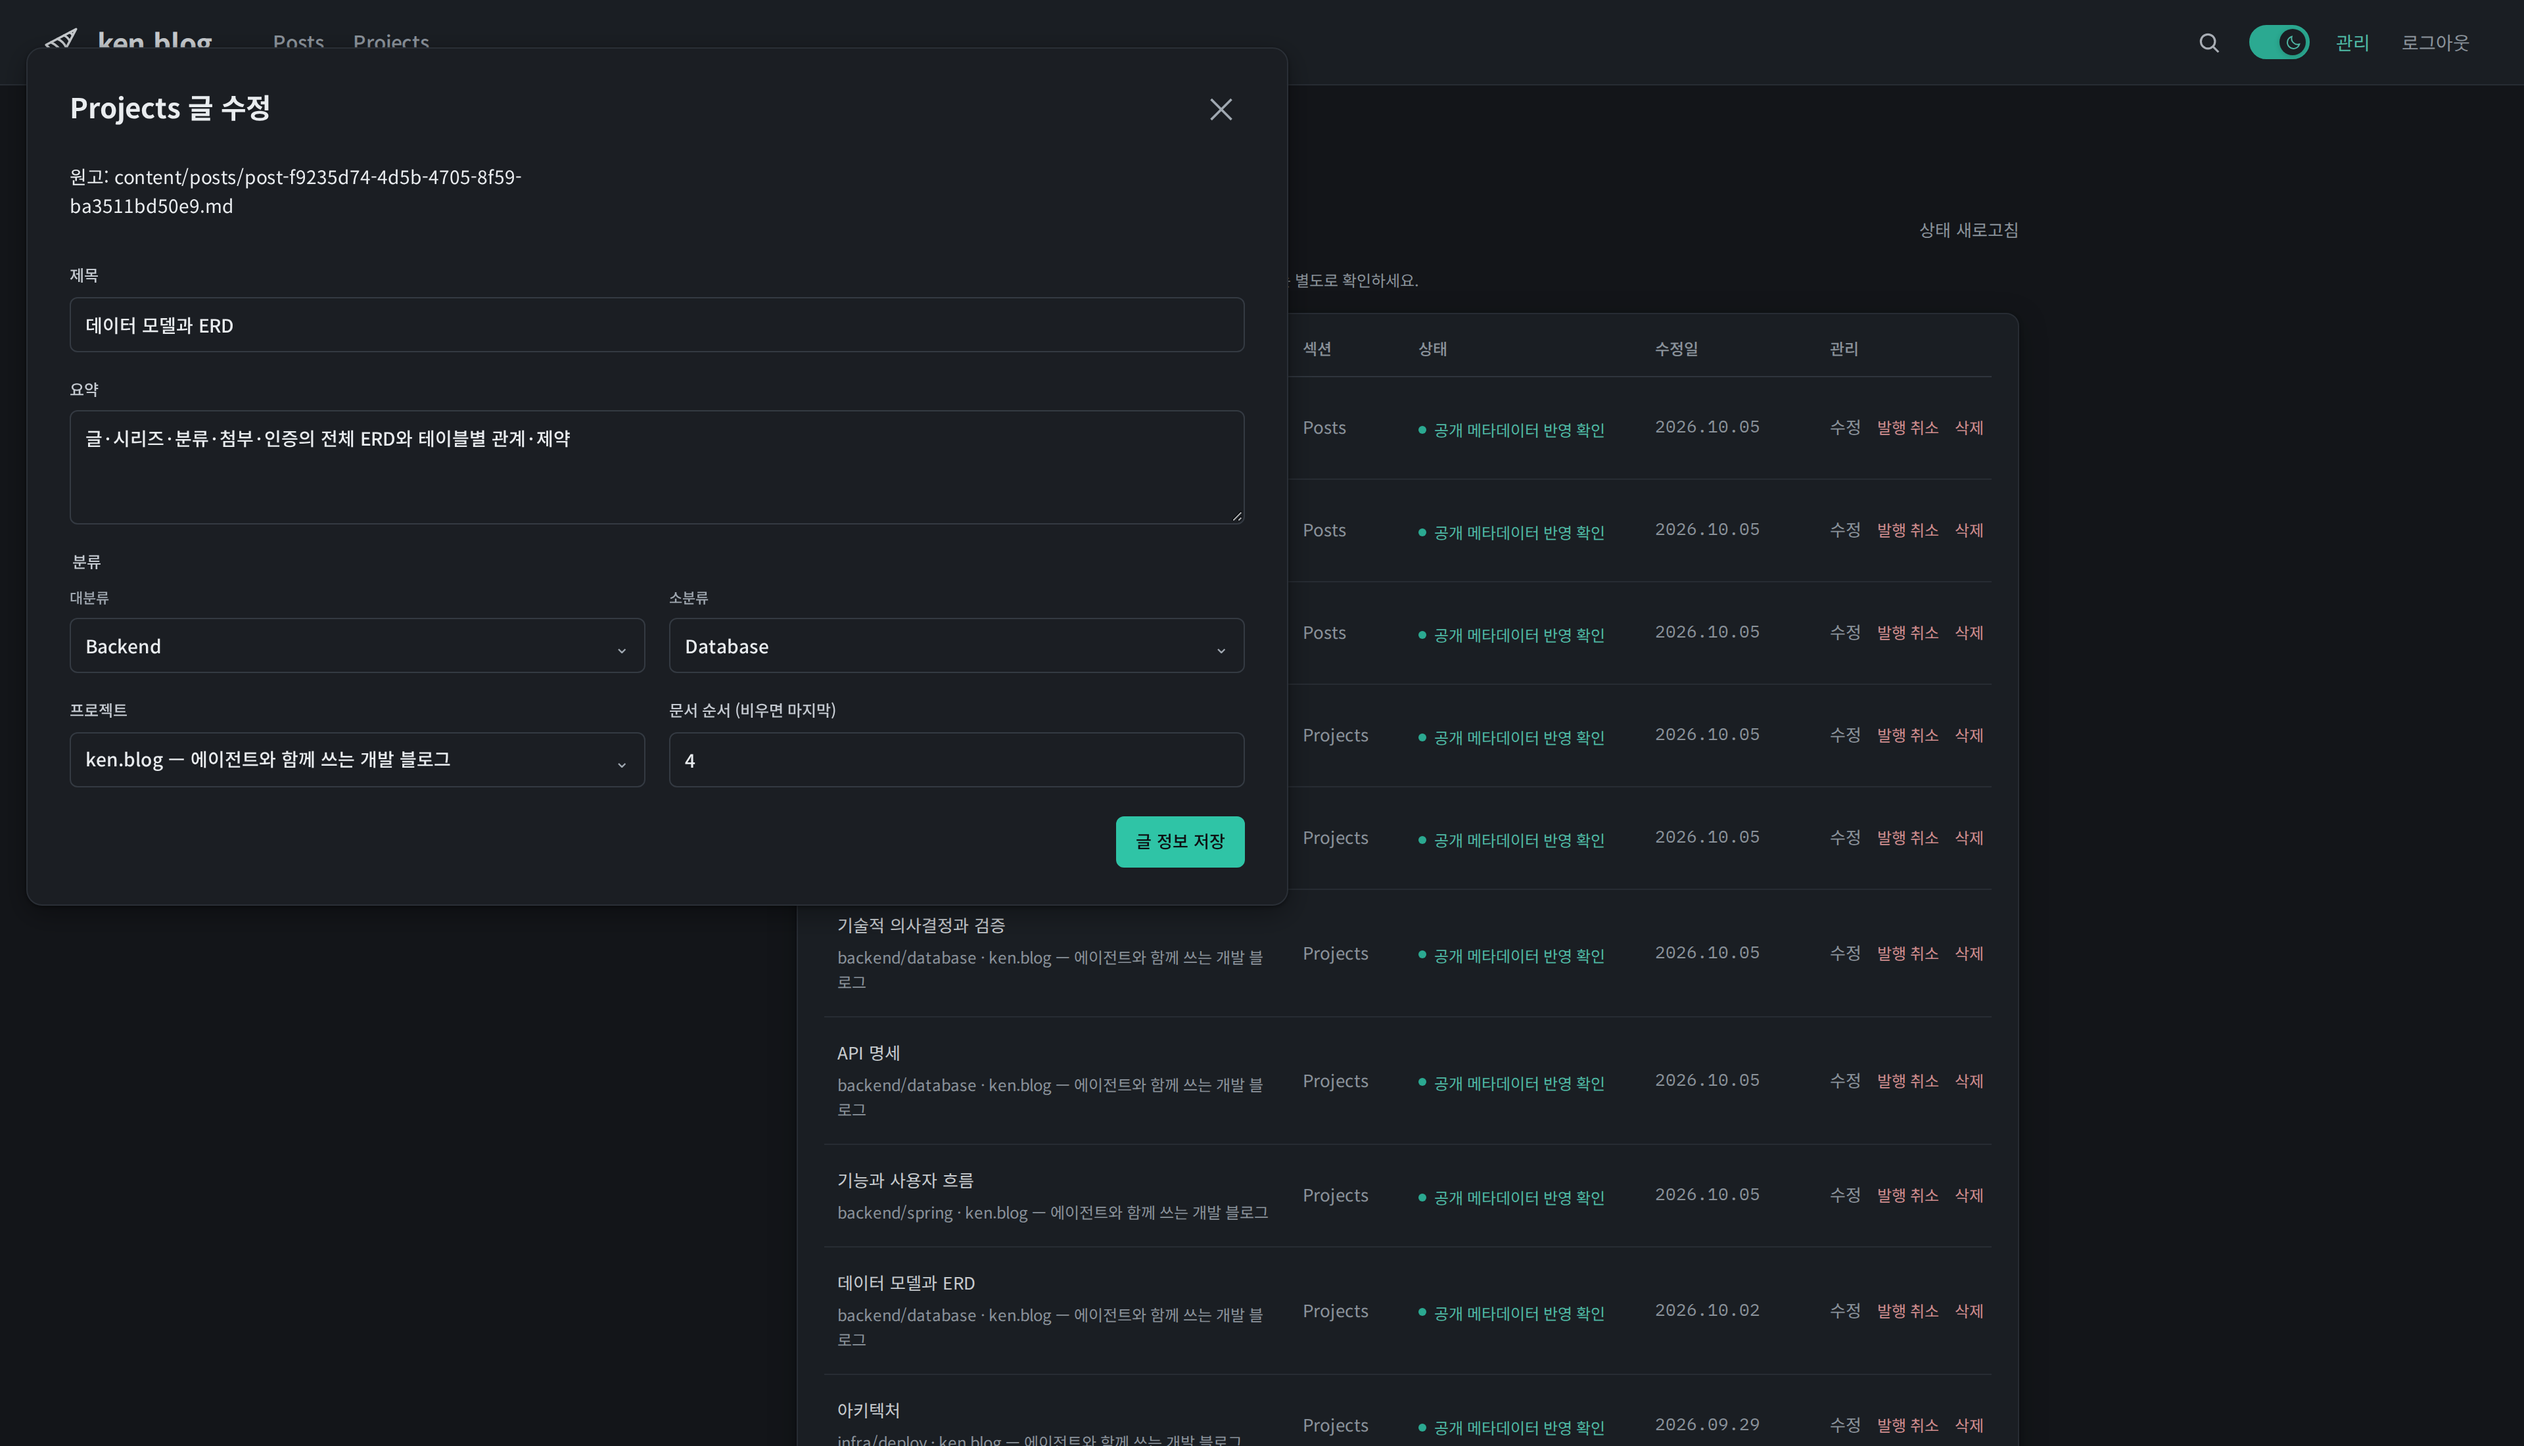
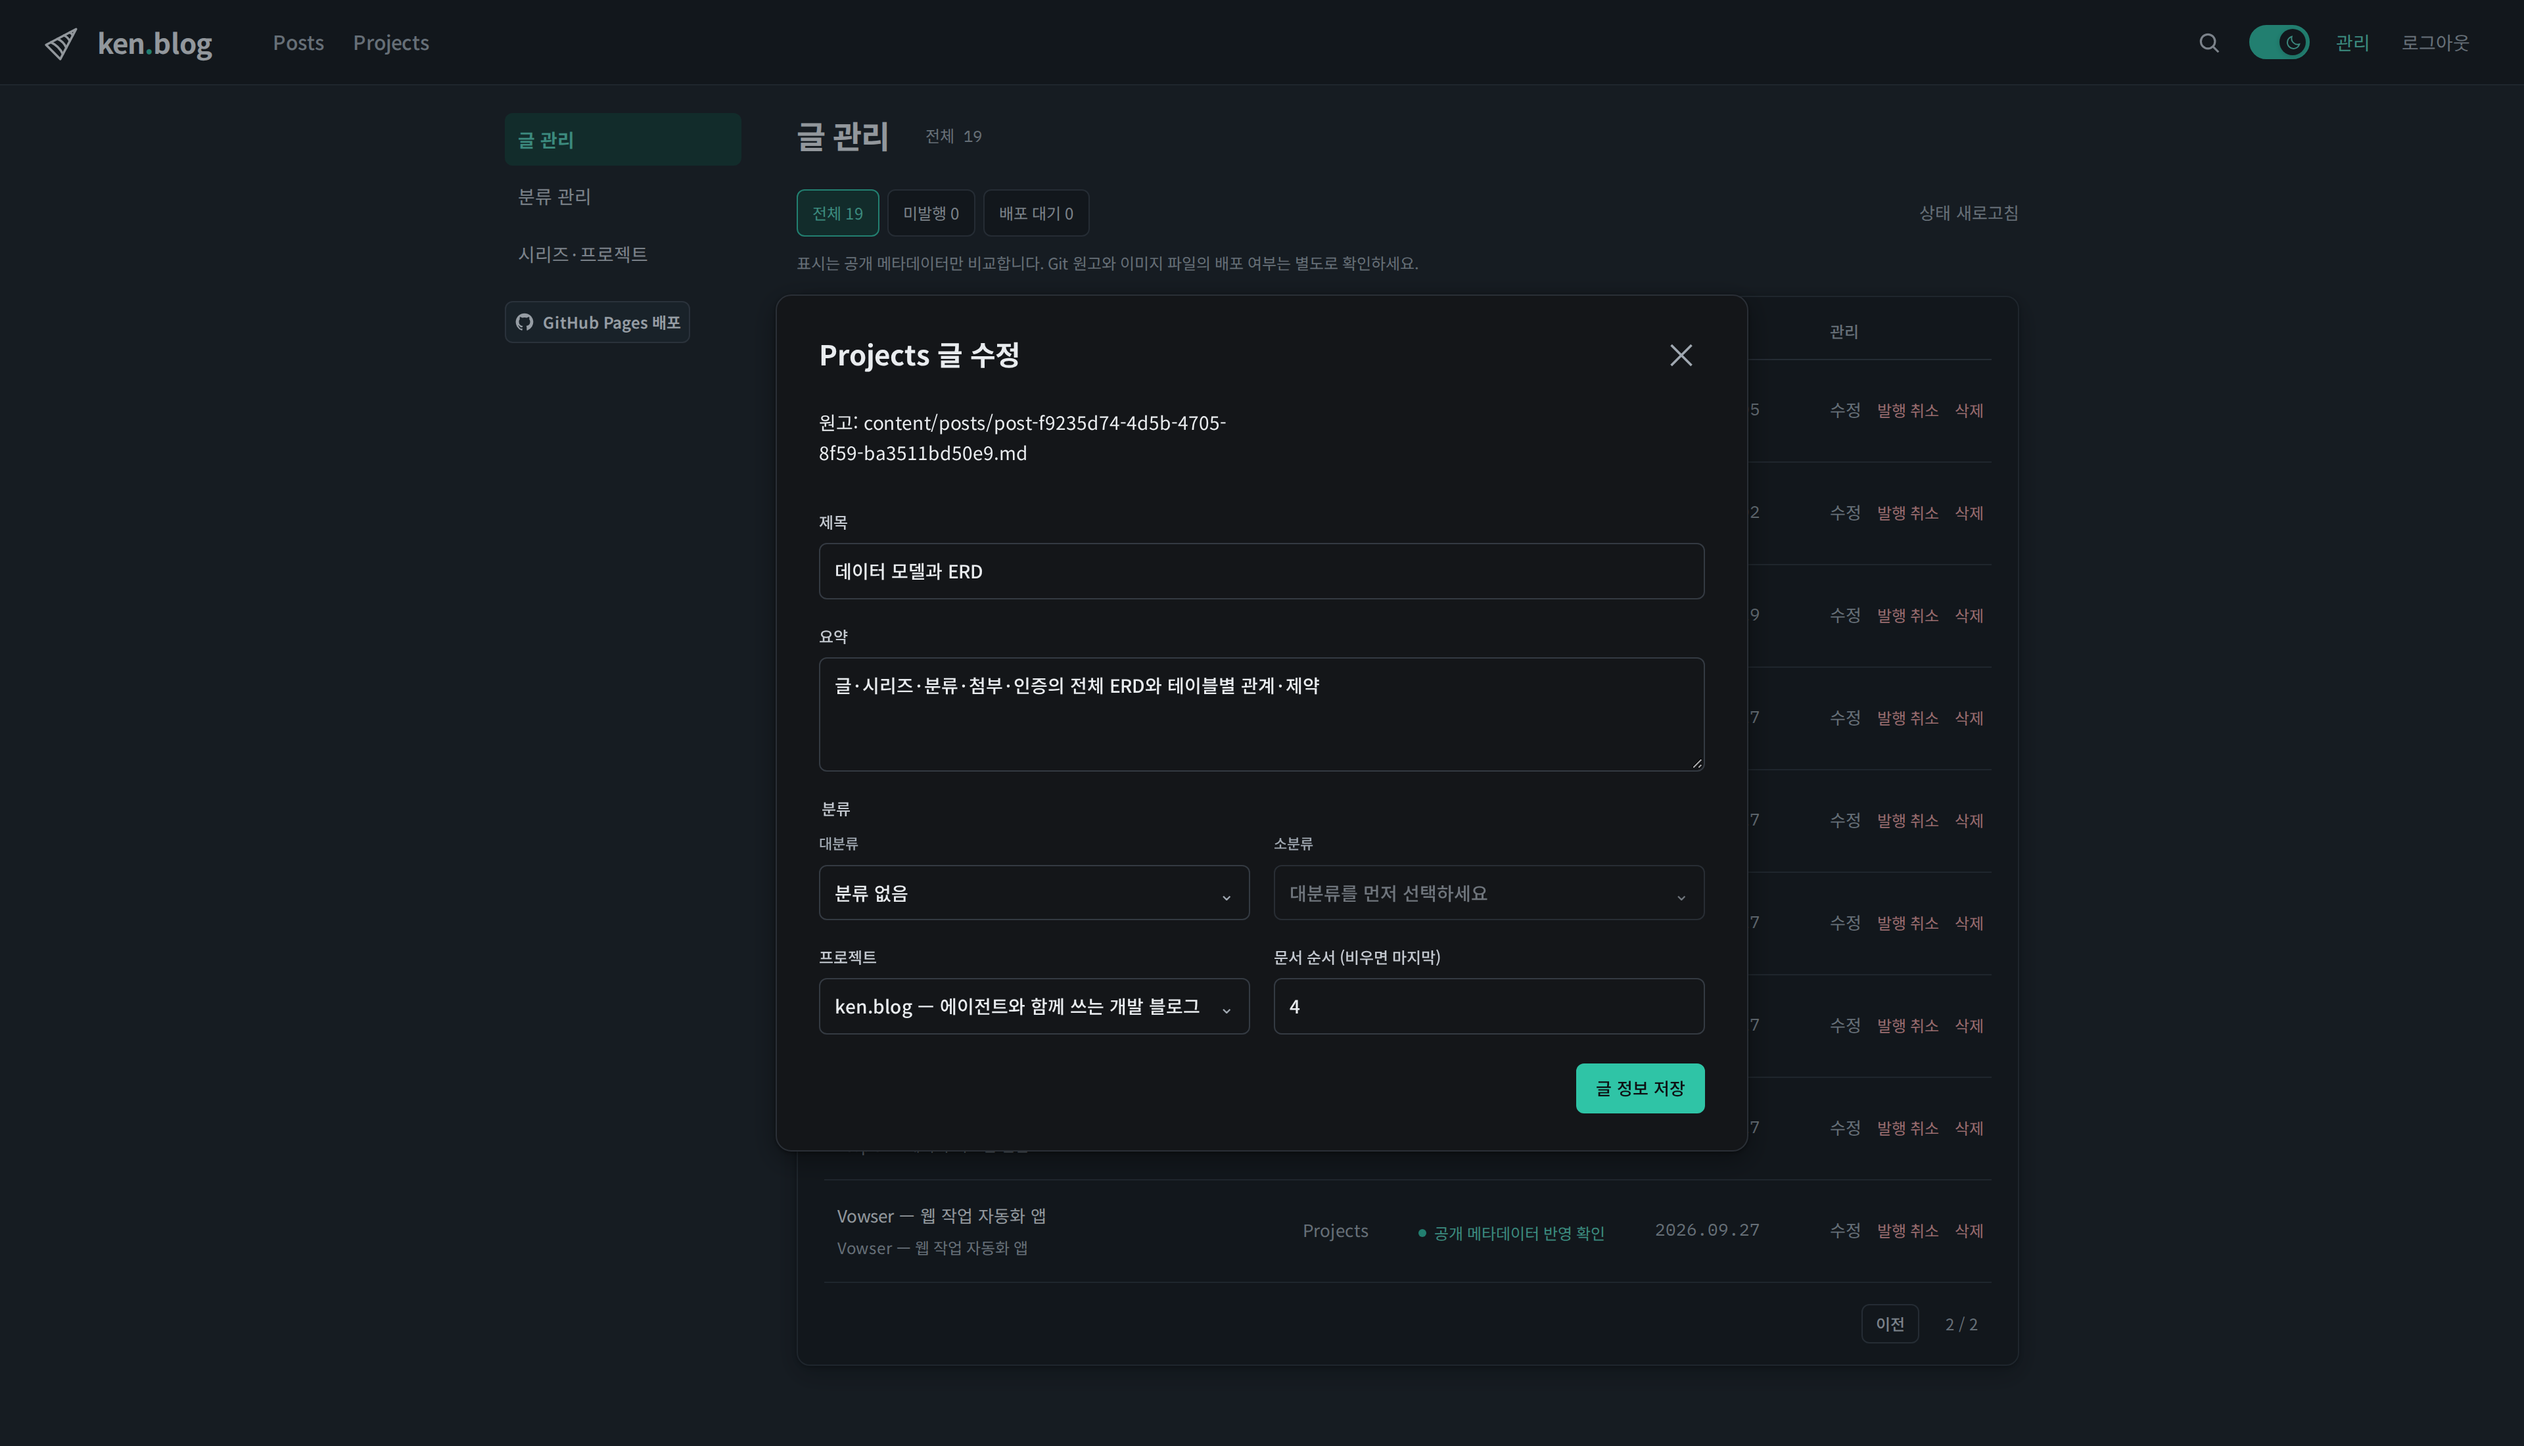
docs: shorten README stack and refresh admin screenshot

diff --git a/.claude/skills/ken-blog-docs/references/decisions.md b/.claude/skills/ken-blog-docs/references/decisions.md
@@ -49,6 +49,7 @@ ken-blog 문서를 사용자와 검토하며 확정한 결정. 새 결정은 다
 | D-043 | 2026-10-08 | 보안 설계 문서의 한계는 위협별 대응 표의 '남은 위험' 열에 두고 별도 한계 절을 두지 않음. 검증하지 않은 항목은 검증 절에 씀. 로그인 제한 같은 세부 임계값은 쓰지 않고 방식만 씀(D-039와 같은 이유) | 08의 한계 절이 남은 위험 열과 중복됨. 세부 수치는 설계 판단을 보여 주지 않고 코드 링크로 확인할 수 있음 | 공통 |
 | D-044 | 2026-10-08 | 저장소 README는 문서 묶음과 연결 Posts의 작성·검토·검증이 모두 끝난 뒤에 씀. 구성은 document-types.md '저장소 README' | README는 문서를 요약·안내하므로 문서가 바뀌는 중에 쓰면 어긋남. 사용자 결정 | 공통 |
 | D-045 | 2026-10-08 | README 구성: 화면 스크린샷 1~2장과 블로그 전체 구성도 이미지를 넣고, 나머지는 저장소 안내·실행·문서 링크. 이미지는 저장소에 PNG로 두고 라이트·다크를 `<picture>`로 GitHub 테마에 맞춤 | 사용자가 README에는 보통 전체 아키텍처가 들어간다고 지적하고 스크린샷 추가를 제안함. 고정 배치 도식은 GitHub에서 렌더되지 않음 | 공통 |
+| D-046 | 2026-10-08 | README 기술 스택은 주력 기술만 한 줄로 나열함. 라이브러리·테스트 도구·세부 버전은 넣지 않음 | 사용자가 표 형태의 기술 스택이 너무 장황하다고 함 | 공통 |
 
 ## 주요 결정과 Posts의 분배
 

diff --git a/README.md b/README.md
@@ -19,7 +19,7 @@
   <img src="docs/images/readme/admin-light.png" alt="관리 화면의 글 정보 편집 창. 제목·요약·분류·소속 프로젝트·문서 순서를 편집함" width="100%">
 </picture>
 
-관리 화면의 글 정보 편집. 본문은 Git 원고에서 고치고, 웹에서는 제목·요약·분류·소속·순서만 다룸. 분류 값과 목록은 화면 예시용 모의 데이터.
+관리 화면의 글 정보 편집. 본문은 Git 원고에서 고치고, 웹에서는 제목·요약·분류·소속·순서만 다룸.
 
 ## 핵심 문제와 결정
 
@@ -46,13 +46,7 @@
 
 ## 기술 스택
 
-| 영역 | 기술 |
-| --- | --- |
-| API | Java 25, Spring Boot 4.1, Spring Security, Spring Session JDBC, JPA(Hibernate 7), jOOQ 3.21 |
-| DB | MySQL 8.4(운영은 OCI 관리형 MySQL) |
-| 사이트 빌드 | Node 24, TypeScript, Nunjucks, unified(remark·rehype), Mermaid 12, KaTeX, Shiki |
-| 배포 | GitHub Actions, GitHub Pages, Cloud Native Buildpacks(ARM64 JVM 이미지), Docker Compose, Caddy |
-| 테스트 | JUnit·Testcontainers(MySQL), Node test runner, Playwright(Chromium) |
+Java 25 · Spring Boot 4.1 · MySQL · Node 24 · TypeScript · Mermaid 12 · GitHub Actions · Docker Compose · Caddy
 
 ## 저장소 구조
 

diff --git a/.claude/skills/ken-blog-docs/references/document-types.md b/.claude/skills/ken-blog-docs/references/document-types.md
@@ -107,7 +107,7 @@
 | 2 | 화면 | 스크린샷 1~2장. 공개 화면(설계 문서와 도식)과 관리 화면(글 정보 편집). 모의 데이터면 캡션에 밝힘 |
 | 3 | 핵심 문제와 결정 | P1~Pn 한 줄씩, 상세는 주요 기술적 의사결정 문서로 링크 |
 | 4 | 아키텍처 | 블로그의 전체 구성도를 이미지로 넣고, 배포 경계와 주요 경로를 2~3줄로 설명. 상세는 아키텍처 문서로 링크 |
-| 5 | 기술 스택 | 버전이 있는 목록 |
+| 5 | 기술 스택 | 주력 기술만 한 줄로 나열(버전은 언어·프레임워크·런타임만). 라이브러리·테스트 도구는 넣지 않음 |
 | 6 | 저장소 구조 | 주요 디렉터리 표 |
 | 7 | 실행과 검증 | 로컬 실행·테스트 명령, CI가 검사하는 것. 운영 배포는 배포 절차 문서 링크로 대신 |
 | 8 | 문서 | 블로그 문서 묶음·Posts·ADR·컨벤션 링크 |
